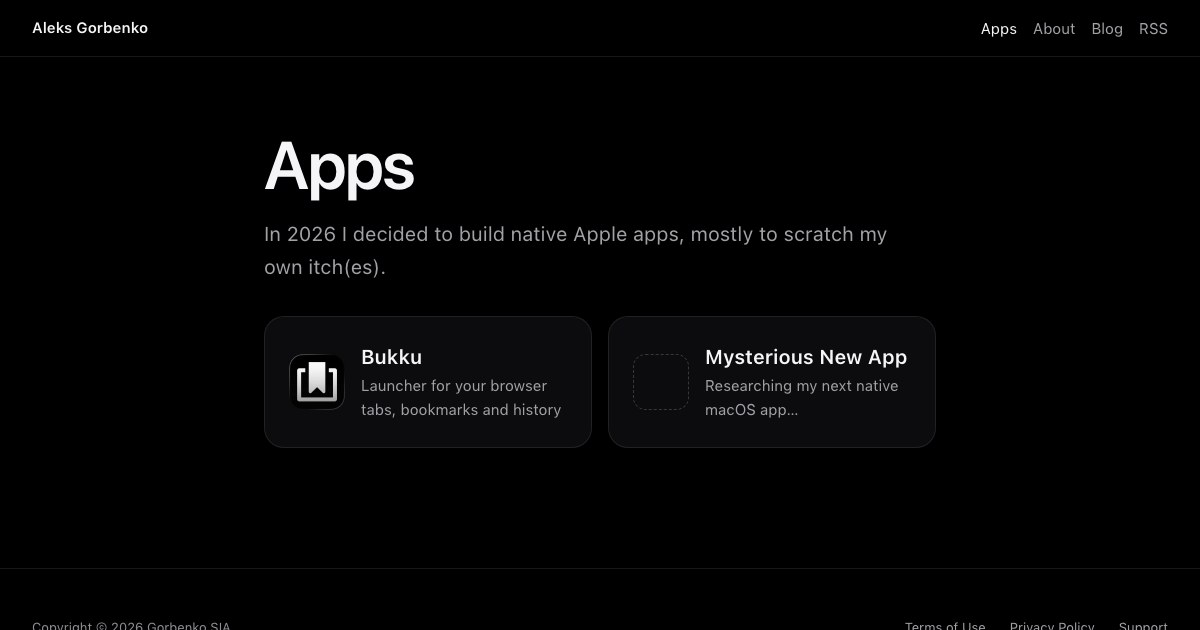
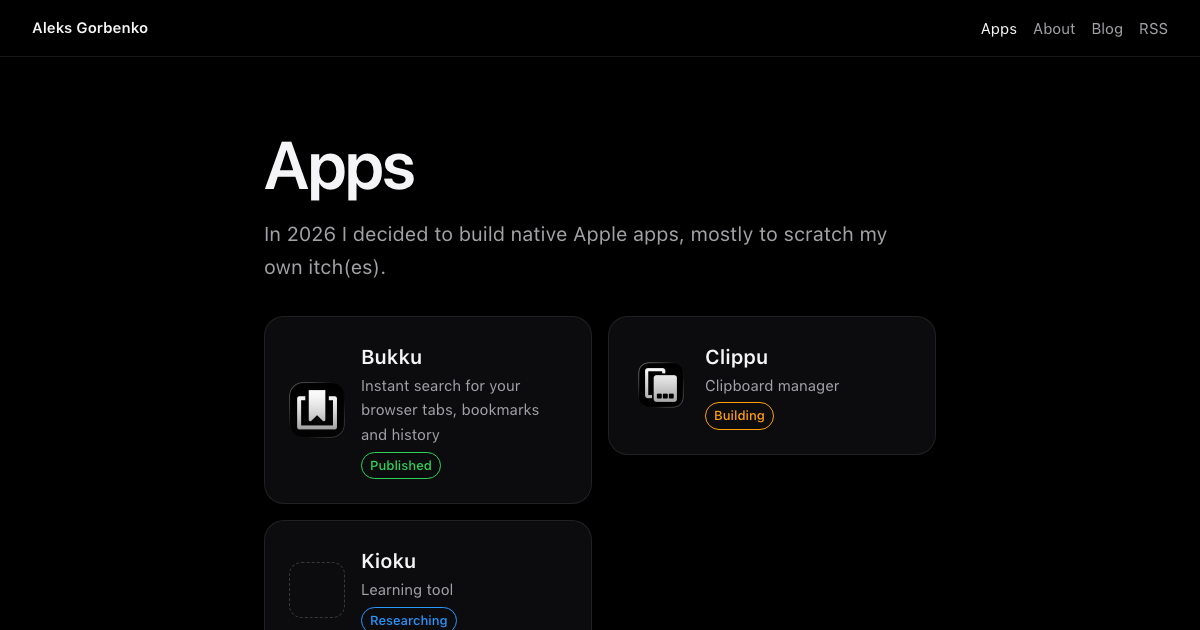
feat(apps): Clippu draft page and app status tags
Published, Building and Researching tags on app cards; Kioku replaces the placeholder card.

diff --git a/layouts/_partials/app-card.html b/layouts/_partials/app-card.html
@@ -1,10 +1,5 @@
-<a class="card card-link app-card" href="{{ .RelPermalink }}">
-  {{ with .Resources.Get .Params.icon }}
-    {{ $icon := .Resize "112x webp q90" }}
-    <img src="{{ $icon.RelPermalink }}" width="{{ $icon.Width }}" height="{{ $icon.Height }}" alt="" />
-  {{ end }}
-  <span>
-    <span class="app-card-name">{{ .Title }}</span>
-    {{ with .Params.tagline }}<span class="app-card-tagline">{{ . }}</span>{{ end }}
-  </span>
-</a>
+{{ if .RelPermalink }}
+  <a class="card card-link app-card" href="{{ .RelPermalink }}">{{ partial "app-card-content.html" . }}</a>
+{{ else }}
+  <div class="card app-card">{{ partial "app-card-content.html" . }}</div>
+{{ end }}

diff --git a/assets/css/12-cards.css b/assets/css/12-cards.css
@@ -57,6 +57,28 @@
     font-weight: var(--weight-semibold);
   }
 
+  .app-card-status {
+    display: inline-block;
+    margin-top: var(--space-2xs);
+    padding: var(--space-3xs) var(--space-xs);
+    border: var(--border-hairline) solid currentcolor;
+    border-radius: var(--radius-full);
+    font-size: var(--text-xs);
+    font-weight: var(--weight-medium);
+  }
+
+  .app-card-status-published {
+    color: var(--colour-tip);
+  }
+
+  .app-card-status-building {
+    color: var(--colour-warning);
+  }
+
+  .app-card-status-researching {
+    color: var(--colour-note);
+  }
+
   .app-card-tagline {
     display: block;
     color: var(--colour-text-secondary);

diff --git a/layouts/apps/list.html b/layouts/apps/list.html
@@ -23,16 +23,9 @@
         {{ with .Content }}<div class="page-lead">{{ . }}</div>{{ end }}
       </header>
       <ul class="cards">
-        {{ range where .Pages "Params.icon" "!=" nil }}
+        {{ range where .Pages "Params.status" "!=" nil }}
           <li>{{ partial "app-card.html" . }}</li>
         {{ end }}
-        <li class="card app-card">
-          <span class="app-card-placeholder"></span>
-          <span>
-            <span class="app-card-name">Mysterious New App</span>
-            <span class="app-card-tagline">Researching my next native macOS app…</span>
-          </span>
-        </li>
       </ul>
     </div>
   {{ end }}

diff --git a/layouts/_partials/app-card-content.html b/layouts/_partials/app-card-content.html
@@ -1,0 +1,11 @@
+{{ with .Resources.Get (.Params.icon | default "") }}
+  {{ $icon := .Resize "112x webp q90" }}
+  <img src="{{ $icon.RelPermalink }}" width="{{ $icon.Width }}" height="{{ $icon.Height }}" alt="" />
+{{ else }}
+  <span class="app-card-placeholder"></span>
+{{ end }}
+<span>
+  <span class="app-card-name">{{ .Title }}</span>
+  {{ with .Params.category | default .Params.tagline }}<span class="app-card-tagline">{{ . }}</span>{{ end }}
+  {{ with .Params.status }}<span class="app-card-status app-card-status-{{ . }}">{{ . | humanize }}</span>{{ end }}
+</span>

diff --git a/layouts/home.html b/layouts/home.html
@@ -16,7 +16,7 @@
       <section class="section" aria-labelledby="apps-title">
         <h2 class="section-title" id="apps-title">{{ $.Params.appsHeading | default .Title }}</h2>
         <ul class="cards">
-          {{ range where .Pages "Params.icon" "!=" nil }}
+          {{ range where .Pages "Params.status" "!=" nil }}
             <li>{{ partial "app-card.html" . }}</li>
           {{ end }}
         </ul>

diff --git a/tests/pages.ts b/tests/pages.ts
@@ -4,6 +4,7 @@ export const PAGES = [
   "/apps/bukku/",
   "/apps/bukku/privacy-policy/",
   "/apps/bukku/release-notes/",
+  "/apps/clippu/",
   "/apps/terms/",
   "/privacy/",
   "/blog/",

diff --git a/content/apps/clippu/_index.md b/content/apps/clippu/_index.md
@@ -1,0 +1,140 @@
++++
+title = "Clippu"
+draft = false
+weight = 2
+status = "building"
+category = "Clipboard manager"
+tagline = "Your clipboard history, one keystroke away"
+description = "Clippu keeps the text, links, images and files you copy, and pastes any of them back from the keyboard. Offline, with no account."
+keywords = ["macOS", "clipboard", "clipboard manager", "clipboard history", "paste", "productivity", "swift"]
+icon = "images/icon_1024x1024.png"
+requirement = "In development. Requires macOS 26 or later"
+links = [
+  { name = "Coming soon" },
+]
+anchors = [
+  { name = "Features", id = "every-kind-of-copy" },
+  { name = "Shortcuts", id = "shortcuts" },
+  { name = "FAQ", id = "faq" },
+]
+
+[open]
+title = "Your clipboard history as a row of cards"
+body = '''
+Clippu runs in the background and keeps what you copy.\
+Press the shortcut and your history opens along the bottom of the screen.
+
+Find an item, press Return, and Clippu pastes it into the app you were using.
+'''
+label = "Keyboard shortcut: Shift Command V"
+keys = [
+  { glyph = "⇧", name = "shift" },
+  { glyph = "⌘", name = "command" },
+  { glyph = "V" },
+]
+
+[[features]]
+title = "Every Kind of Copy"
+summary = "Text, links, code, colours, images and files each get a card that shows what they are."
+body = """
+- **Code** is syntax highlighted.
+- **Colours** show as a swatch with their value.
+- **Images** show a preview.
+- **Files and folders** show their Finder icon and name.
+- **Links** show the title the app copied with them. Clippu never loads the page.
+"""
+
+[[features]]
+title = "Search Everything"
+summary = "Start typing to search every item, including the text inside images."
+body = "Text in images is recognised on your Mac, so a screenshot of an error message turns up when you search for it."
+
+[[features]]
+title = "Search Scopes"
+summary = "Narrow the search to one kind, one file type or one app."
+body = """
+Type a scope word, then your search:
+
+- `txt`, `url`, `code`, `colour`, `img` or `file` for one kind
+- a file extension, such as `png` or `pdf`
+- an app name, such as `safari`
+
+The scope shows as a capsule in the search field.
+"""
+
+[[features]]
+title = "Paste in Order"
+summary = "Pick several cards and paste them in the order you picked them."
+body = """
+- [[⇧ ←]] [[⇧ →]] select a range
+- [[space]] add or remove any card
+- [[↩]] paste
+- [[⇧ ↩]] paste as plain text
+"""
+
+[[features]]
+title = "Undo Any Change"
+summary = "Delete, edit, rename, move or clear, then press [[⌘ Z]] to take it back."
+
+[[features]]
+title = "Private by Design"
+summary = "Clippu works offline and leaves out what it should not keep."
+body = """
+- **It stays local.** No network, no account, no telemetry.
+- **Passwords stay out.** Copies that password managers mark as confidential are never kept.
+- **You choose the apps.** Ignore any app in Settings, and nothing you copy from it is kept.
+- **You set the limits.** History ages out by the age and storage size you choose.
+"""
+
+[[features]]
+title = "Shortcuts Integration"
+summary = "Paste an item, delete an item or clear your history from your own shortcuts."
+
+[[shortcuts]]
+group = "Anywhere"
+keys = [
+  { keys = "⇧ ⌘ V", action = "Open the clipboard bar. Change it in Settings." },
+]
+
+[[shortcuts]]
+group = "Search"
+keys = [
+  { keys = "↓ ⇥", action = "Go from the search field to the first card" },
+  { keys = "↑ ⇧ ⇥", action = "Go back to the search field" },
+]
+
+[[shortcuts]]
+group = "Cards"
+keys = [
+  { keys = "← →", action = "Move between cards" },
+  { keys = "⇧ ← ⇧ →", action = "Select a range" },
+  { keys = "space", action = "Add the card to the selection or remove it" },
+  { keys = "↩", action = "Paste the selection" },
+  { keys = "⇧ ↩", action = "Paste as plain text" },
+  { keys = "⌘ ⌫", action = "Delete the selection" },
+  { keys = "⌥ ⌘ ← ⌥ ⌘ →", action = "Move the selection" },
+  { keys = "⌘ E", action = "Edit the text of a text or link card" },
+  { keys = "⌘ Z", action = "Undo" },
+  { keys = "⌘ /", action = "Show every keyboard shortcut" },
+]
+
+[[faq]]
+question = "Does Clippu send my clipboard anywhere?"
+answer = "No. Clippu has no network access, no account and no telemetry. Everything you copy stays on your Mac."
+
+[[faq]]
+question = "Will it keep my passwords?"
+answer = "No. Password managers mark the passwords you copy as confidential, and Clippu never keeps those copies. You can also ignore whole apps in Settings › Privacy."
+
+[[faq]]
+question = "How long does Clippu keep my history?"
+answer = "Until it reaches the limits you set in Settings: a maximum age and a maximum storage size. The oldest items go first."
+
+[[faq]]
+question = "Does it show a Dock icon?"
+answer = "No. Clippu works in the background and opens with your shortcut. A menu bar icon is optional."
+
+[[faq]]
+question = "When can I get it?"
+answer = "Clippu is in development. This page will have the download and App Store links when it is ready."
++++

diff --git a/content/apps/bukku/_index.md b/content/apps/bukku/_index.md
@@ -1,6 +1,8 @@
 +++
 title = "Bukku"
 draft = false
+weight = 1
+status = "published"
 tagline = "Instant search for your browser tabs, bookmarks and history"
 description = "Find any open tab, bookmark or page from your history the moment you start typing. No plugins to install. Everything stays on your Mac."
 keywords = ["macOS", "launcher", "browser", "bookmarks", "tabs", "history", "productivity", "swift"]

diff --git a/content/apps/kioku/_index.md b/content/apps/kioku/_index.md
@@ -1,0 +1,10 @@
++++
+title = "Kioku"
+weight = 3
+status = "researching"
+category = "Learning tool"
+
+[build]
+render = "never"
+list = "always"
++++
